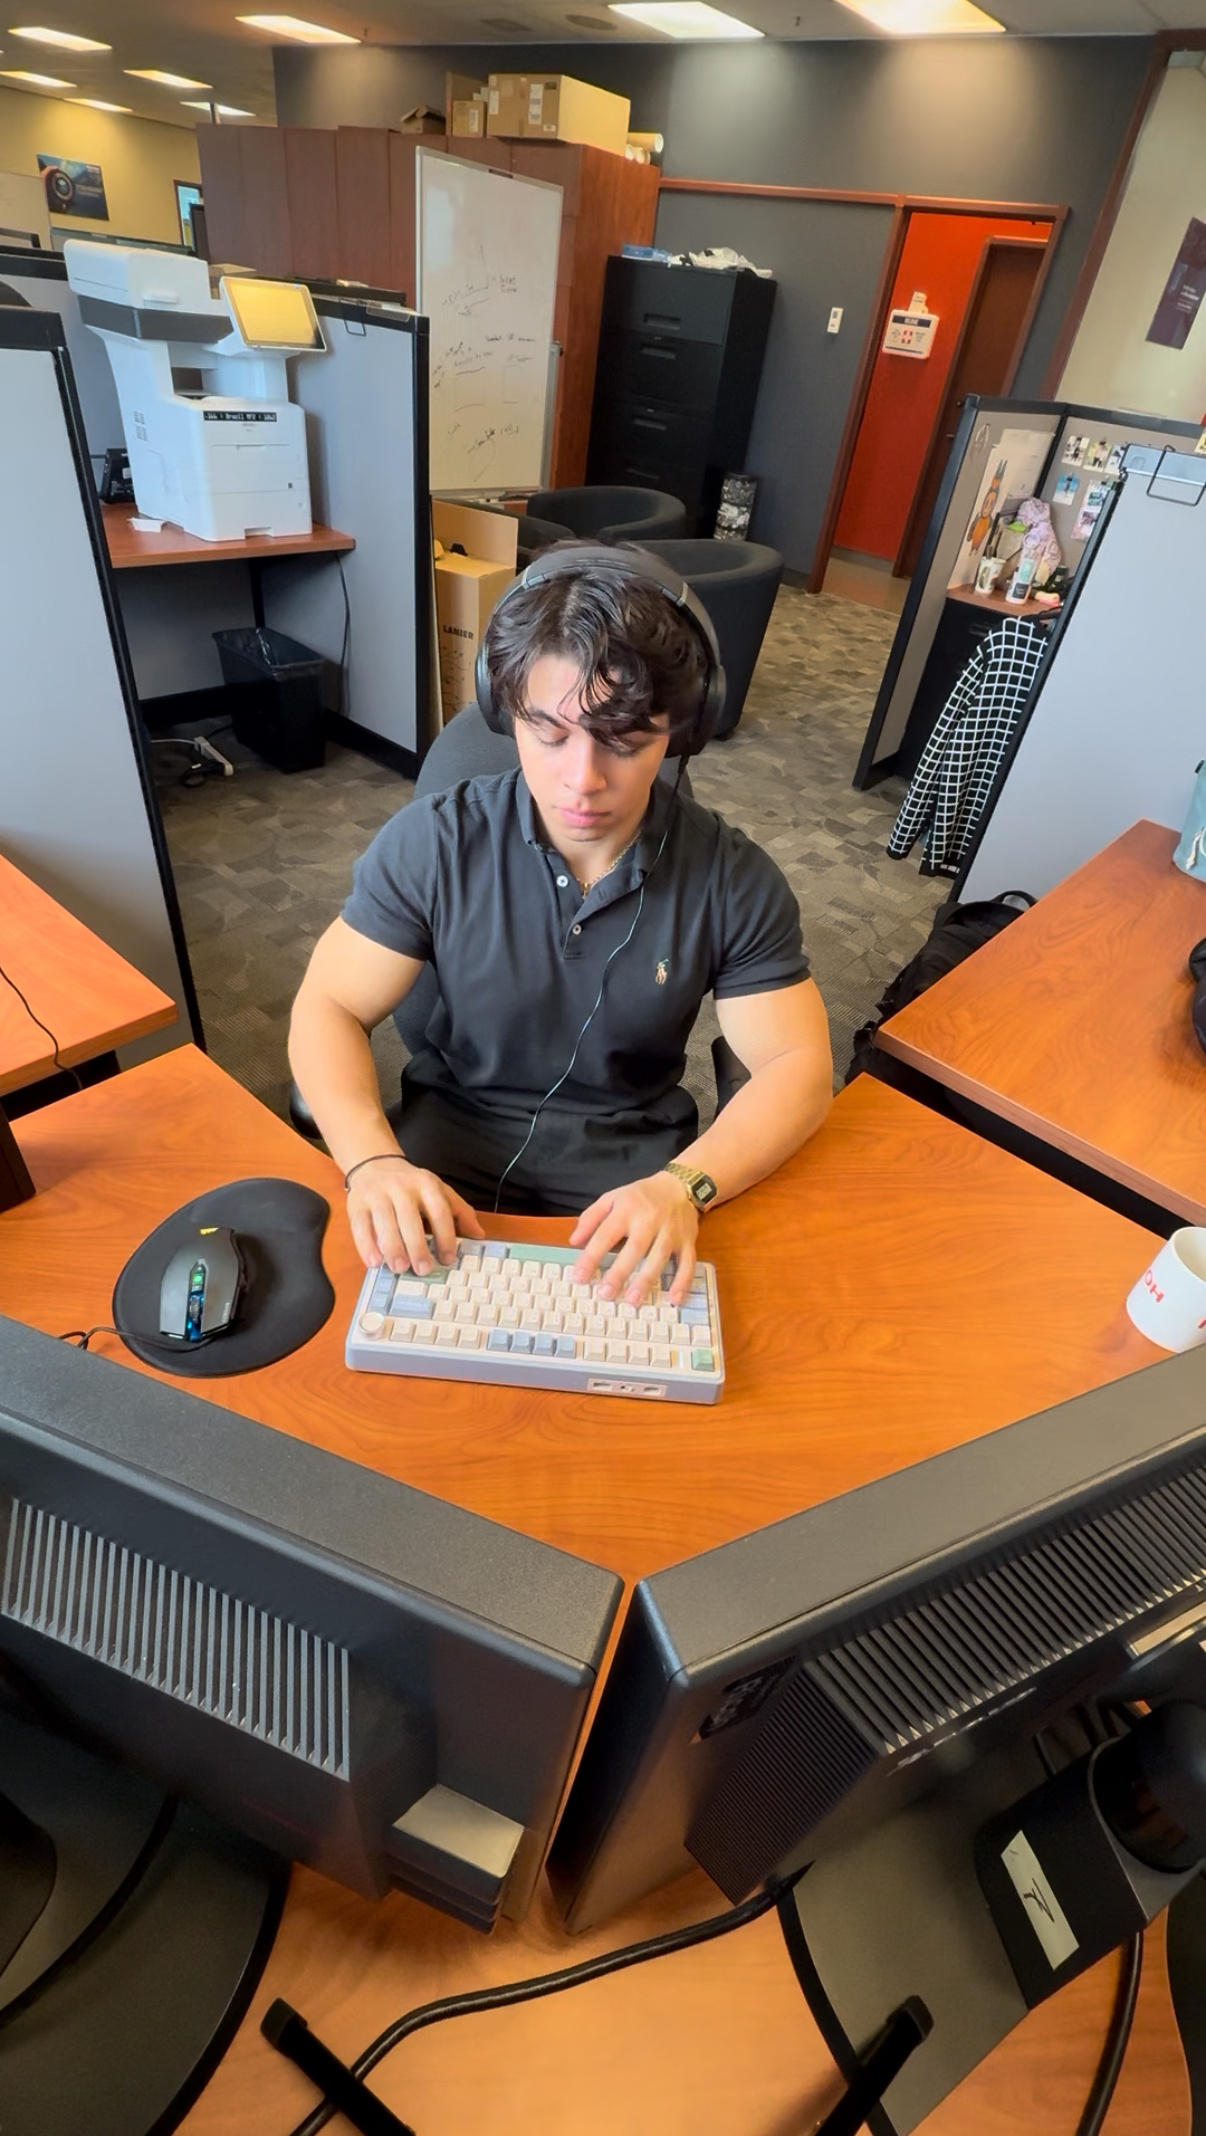
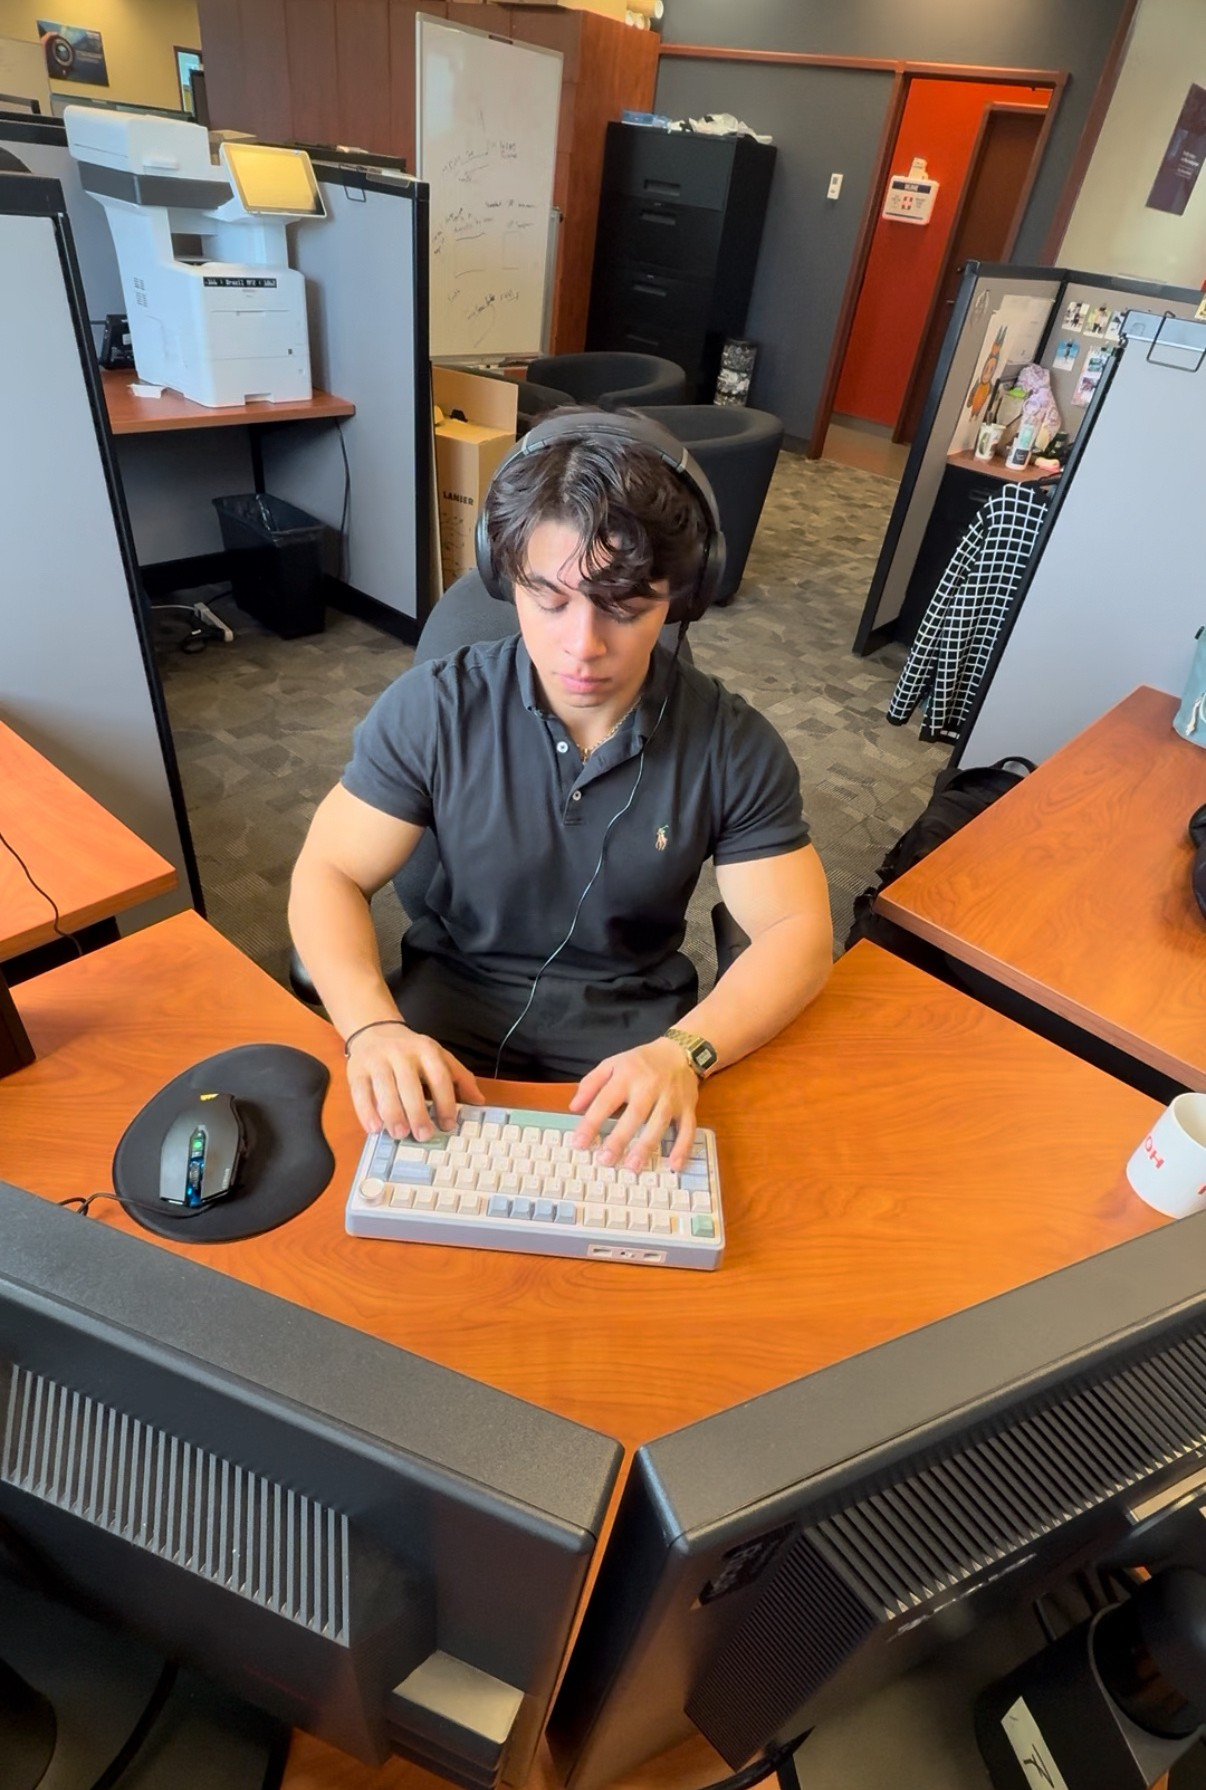
wip: update Objects photos, alt text, and release details

diff --git a/docs/archive-vision.md b/docs/archive-vision.md
@@ -103,7 +103,7 @@ This collection is for physical objects, tools, products, creator gear, vehicles
 
 The page title is `Objects`, with the small, muted subtitle `objects i find beautiful, useful, or meaningful.` Michael will supply his own photos, with one to four photos per object, organised under `public/images/archive/objects/<object-slug>/`.
 
-The current page uses a journal-style entry layout with a photo gallery per object. Keep this order: Sony ZV-1, DJI Mic Mini, AULA F75, iPhone 16 Pro without a case, iPad Air and Apple Pencil, fidget cube, candles, earplugs and sleep mask, coconut water, Alani energy drinks (honourable mention), and açaí bowls (honourable mention). Sony's mirror photo of Michael holding the camera comes first (left on desktop); the camera-only photo comes second. His first 22 personal photos were imported October 2, 2026. Four more were added October 3, replacing one Alani photo. Removing the handheld Urban Burn candle photo leaves 24 active photos. Alani's sunset case photo comes first, followed by the pink can, indoor case photo, and breakfast. Candles keeps only the two desk shots side by side, with the new working-with-a-candle photo first. Coconut Water is a separate entry immediately before the honourable mentions, with its carton and case photos side by side. Açaí Bowls remains an honourable mention after Alani, with its single HEAL photo. Entry data lives in `src/archive/objectsData.mjs`, imported into the shared category data.
+The current page uses a journal-style entry layout with a photo gallery per object. Keep this order: Sony ZV-1, DJI Mic Mini, AULA F75, iPhone 16 Pro without a case, iPad Air and Apple Pencil, fidget cube, candles, earplugs and sleep mask, coconut water, Alani energy drinks (honourable mention), and açaí bowls (honourable mention). Sony's landscape mirror photo leads above two portraits: holding the camera by the window on the left, and the screen close-up on the right. The old top-down desk shot was removed. The iPhone entry starts with the new handheld photo in front of the Laurier sign, followed by the existing desk photo. His first 22 personal photos were imported October 2, 2026. Four more were added October 3, replacing one Alani photo. After removing the handheld Urban Burn candle photo and updating the Sony and iPhone galleries, there are 25 active photos. Alani's sunset case photo comes first, followed by the pink can, indoor case photo, and breakfast. Candles keeps only the two desk shots side by side, with the new working-with-a-candle photo first. Coconut Water is a separate entry immediately before the honourable mentions, with its carton and case photos side by side. Açaí Bowls remains an honourable mention after Alani, with its single HEAL photo. Entry data lives in `src/archive/objectsData.mjs`, imported into the shared category data.
 
 Object entries show the name, photos, and one `My thoughts` disclosure below the entire photo group. Leave thoughts empty until Michael supplies his writing; the empty disclosure hides automatically. Maker or brand and release year or era are optional on a per-object basis: include them when Michael finds them meaningful, otherwise omit those fields so no empty labels or gaps appear. Do not add category tags or other metadata to Objects unless Michael changes this direction.
 
@@ -113,7 +113,7 @@ Michael makes the major crops directly in the objects image folders. Refresh pho
 
 Michael prefers two photo formats for future entries: a pair of portrait photos, or a landscape lead photo above two portrait photos, as in the AULA F75 entry. The page is becoming a personal collection of everyday essentials, similar to a “what's in my bag” page, while still allowing other meaningful objects.
 
-Next photo pass: Michael plans to improve the Sony ZV-1 photos, aiming for a landscape lead shot above two portraits, and retake one iPhone photo. He may also refine crops, including the two lower AULA F75 photos. Wait for his replacement photos rather than changing these entries prematurely. Refresh image dimensions and check alignment after his edits, then add his supplied `My thoughts` writing to each entry.
+The Sony landscape-and-two-portraits gallery and the replacement iPhone shot are now implemented. Michael cropped the two lower AULA F75 photos; their dimensions have been refreshed and the pair uses a 3:4 display frame to match the shorter portrait groups. Preserve those edited files and show their full crops in the lightbox. Refresh image dimensions and check alignment after any further edits, then add his supplied `My thoughts` writing to each entry.
 
 ### Places — `/archive/places`
 

diff --git a/docs/objects-photos.md b/docs/objects-photos.md
@@ -2,13 +2,15 @@
 
 Michael supplied 22 personal photos for ten Objects entries, imported October 2, 2026.
 
-On October 3, four more HEIC photos were converted at full resolution and imported. The sunset Alani case replaces the first Cosmic Stardust can photo. Candles keeps only the two desk shots, with the new working-at-the-desk photo first; the handheld Urban Burn candle photo was removed. Coconut Water is its own entry above Alani, with the carton and case photos. Açaí Bowls (honourable mention) remains below Alani with its single HEAL photo, bringing the page to eleven entries. There are 24 active public photos. These four new HEIC originals were also replaced with verified JPG counterparts in the source folder before removal.
+On October 3, four more HEIC photos were converted at full resolution and imported. The sunset Alani case replaces the first Cosmic Stardust can photo. Candles keeps only the two desk shots, with the new working-at-the-desk photo first; the handheld Urban Burn candle photo was removed. Coconut Water is its own entry above Alani, with the carton and case photos. Açaí Bowls (honourable mention) remains below Alani with its single HEAL photo, bringing the page to eleven entries. There were 24 active public photos after this import. These four new HEIC originals were also replaced with verified JPG counterparts in the source folder before removal.
 
 All public assets are JPGs with their original resolution and correct orientation. Camera metadata is omitted; embedded colour profiles are retained. Eleven HEIC files and two PNG files were converted, and the existing JPGs were exported consistently. Full-size JPGs were decoded and their dimensions and file hashes verified after copying into the repository.
 
 The eleven HEIC originals were replaced with verified JPG counterparts in Michael's source folder, then removed at his request. Existing JPG and PNG originals remain there.
 
 Michael subsequently cropped the public JPGs himself. The public files now represent those edits; preserve them, refresh their data dimensions after cropping, and use matching gallery frames for alignment. The initial conversion dimensions and hashes are historical, not a reason to replace his updated photos.
+
+The updated AULA F75 desk photo is 2160 × 3255 and the work photo is 1206 × 1790. Their gallery uses a 3:4 display frame to shorten and align the pair while the landscape lead remains unchanged. The lightbox opens the complete edited JPGs.
 
 Photo layout and content editing guidance lives in `archive-vision.md`. Personal thoughts remain empty until Michael supplies them. Maker and year are optional. The video screenshot of the fidget cube belongs to the Fidget Cube entry. Alani has four photos; the breakfast photo is fourth because it shows Michael having an Alani with his breakfast.
 
@@ -42,3 +44,13 @@ Photo layout and content editing guidance lives in `archive-vision.md`. Personal
 | `IMG_9806.HEIC` | `coconut-water/holding-coconut-water.jpg` |
 | `IMG_9809.HEIC` | `coconut-water/coconut-water-case.jpg` |
 | `IMG_9817.HEIC` | `candles/working-with-a-candle.jpg` |
+
+## Sony and iPhone refresh, October 3, 2026
+
+The Sony mirror photo now leads above the new handheld window portrait (left) and screen close-up (right). The old top-down Sony photo was removed from the public assets. The iPhone glare photo was replaced by the new handheld photo in front of the Laurier sign; its existing second photo remains. There are now 25 active photos across eleven entries. Original JPG sources remain untouched. The new Sony HEIC was converted upright at full resolution and replaced with a verified JPG in the source folder before removal.
+
+| Original | Public image under `public/images/archive/objects/` |
+| --- | --- |
+| `IMG_9823.HEIC` | `sony-zv-1/sony-zv-1-by-the-window.jpg` |
+| `IMG_9821.jpg` | `sony-zv-1/sony-zv-1-screen-close-up.jpg` |
+| `DSC09797.JPG` | `iphone-16-pro/iphone-16-pro-by-laurier-sign.jpg` |
